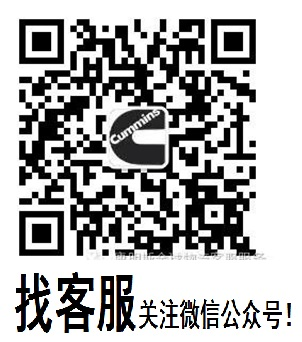
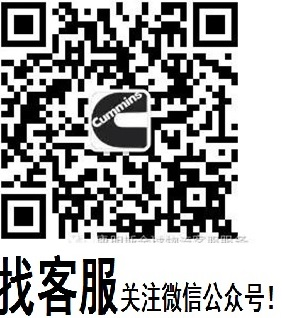
change some layour for waybillPrint function

diff --git a/CHubMVC/CHubCommon/PDFHelper/LocalPageEventHelper.cs b/CHubMVC/CHubCommon/PDFHelper/LocalPageEventHelper.cs
@@ -99,8 +99,8 @@ namespace CHubCommon
                 template = cb.CreateTemplate(50, 50);
             }
 
-            float linePosition = 110f;
-            if (!printCode)
+            float linePosition = 115f;
+            if ((!printCode)&&(hData.PRINT_LOGO==CHubConstValues.IndN))
             {
                 document.Add(new Paragraph(Environment.NewLine));
                 document.Add(new Paragraph(Environment.NewLine));
@@ -119,29 +119,61 @@ namespace CHubCommon
 
                 PdfPTable hTable = new PdfPTable(1);
                 hTable.WidthPercentage = 100f;
-                
+                              
                 PdfPCell hUnit = new PdfPCell();
-                
+
                 /////
 
                 #region for adding header part for each page
-                iTextSharp.text.Image tImg = iTextSharp.text.Image.GetInstance(QRPath);
-                tImg.Alignment = Element.ALIGN_RIGHT;
 
-                PdfPTable imgTable = new PdfPTable(1);
-                imgTable.SetWidths(new float[] { 20f });
+                PdfPTable imgTable = new PdfPTable(4);
+                imgTable.SetWidths(new float[] {430f,80f,10f,75f});//215f, 75f, 200f, 85f
                 imgTable.HorizontalAlignment = Element.ALIGN_RIGHT;
-                PdfPCell imgCell = new PdfPCell(tImg, false);
+
+                PdfPCell imgCell = new PdfPCell();
                 imgCell.BorderWidth = 0;
-                imgCell.HorizontalAlignment = Element.ALIGN_RIGHT;
+                imgTable.AddCell(imgCell);
+
+                if (hData.PRINT_LOGO == CHubConstValues.IndY)
+                {
+                    string wechartPath = BasePath.Replace("temp", "images") + (hData.LOGO ?? "wechat.jpg");
+                    iTextSharp.text.Image wechatImage = iTextSharp.text.Image.GetInstance(wechartPath);
+                    wechatImage.Alignment = Element.ALIGN_RIGHT;
+                    imgCell = new PdfPCell(wechatImage, true);
+                    imgCell.HorizontalAlignment = Element.ALIGN_RIGHT;
+                }
+                else
+                    imgCell = new PdfPCell();
+
+                imgCell.BorderWidth = 0;
+                imgTable.AddCell(imgCell);
+
+                //margin between two pictures
+                imgCell = new PdfPCell();
+                imgCell.BorderWidth = 0;
+                imgTable.AddCell(imgCell);
+
+                if (printCode)
+                {
+                    iTextSharp.text.Image tImg = iTextSharp.text.Image.GetInstance(QRPath);
+                    tImg.Alignment = Element.ALIGN_RIGHT;
+                    imgCell = new PdfPCell(tImg, false);
+                    imgCell.HorizontalAlignment = Element.ALIGN_RIGHT;
+                }
+                else
+                    imgCell = new PdfPCell();
+
+                imgCell.BorderWidth = 0;
                 imgTable.AddCell(imgCell);
 
                 hUnit.AddElement(imgTable);
 
-
-                Paragraph p1 = new Paragraph(codeString, new iTextSharp.text.Font(BF_Light, CodeFontSize));
-                p1.Alignment = Element.ALIGN_RIGHT;
-                hUnit.AddElement(p1);
+                if (printCode)
+                {
+                    Paragraph p1 = new Paragraph(codeString, new iTextSharp.text.Font(BF_Light, CodeFontSize));
+                    p1.Alignment = Element.ALIGN_RIGHT;
+                    hUnit.AddElement(p1);
+                }
 
                 //Paragraph p2 = new Paragraph(line1String, new iTextSharp.text.Font(BF_Light, HeaderFontSize));
                 //hUnit.AddElement(p2);
@@ -167,7 +199,7 @@ namespace CHubCommon
             //content table
             PdfPTable contentTable = new PdfPTable(4);
             contentTable.WidthPercentage = 100f;
-            contentTable.SetWidths(new float[] { 215f, 75f, 200f, 85f });
+            contentTable.SetWidths(new float[] { 215f, 70f, 205f, 85f });
             PdfPCell cellUnit;
 
             Paragraph p11 = new Paragraph();
@@ -187,16 +219,17 @@ namespace CHubCommon
             contentTable.AddCell(cellUnit);
 
             //wechat imag p12
-            if (hData.PRINT_LOGO == CHubConstValues.IndY)
-            {
-                string imagePath = BasePath.Replace("temp", "images") + (hData.LOGO?? "wechat.jpg");
-                iTextSharp.text.Image logoImage = iTextSharp.text.Image.GetInstance(imagePath);
-                cellUnit = new PdfPCell(logoImage, true);
-            }
-            else
-            {
-                cellUnit = new PdfPCell();
-            }
+            //if (hData.PRINT_LOGO == CHubConstValues.IndY)
+            //{
+            //    string imagePath = BasePath.Replace("temp", "images") + (hData.LOGO?? "wechat.jpg");
+            //    iTextSharp.text.Image logoImage = iTextSharp.text.Image.GetInstance(imagePath);
+            //    cellUnit = new PdfPCell(logoImage, true);
+            //}
+            //else
+            //{
+            //    cellUnit = new PdfPCell();
+            //}
+            cellUnit = new PdfPCell();
             cellUnit.BorderWidth = 0;
             contentTable.AddCell(cellUnit);
 

diff --git a/CHubMVC/CHubBLL/OtherProcess/RPWayBillPrintBLL.cs b/CHubMVC/CHubBLL/OtherProcess/RPWayBillPrintBLL.cs
@@ -92,7 +92,7 @@ namespace CHubBLL.OtherProcess
             leHelper.line1String = GetLineString(sData, 80);
 
             Document doc = new Document(pageRec);
-            doc.SetMargins(36f, 36f, 10f, bottomMargin);
+            doc.SetMargins(30f, 36f, 15f, bottomMargin);
             PdfWriter writer = PdfWriter.GetInstance(doc, new FileStream(fullPath, FileMode.Create));
 
             //leHelper.QRPath = fullImgPath;
@@ -202,7 +202,7 @@ namespace CHubBLL.OtherProcess
             leHelper.BasePath = BasePath;
 
             Document doc = new Document(pageRec);
-            doc.SetMargins(36f, 36f, 10f, bottomMargin);
+            doc.SetMargins(30f, 36f, 15f, bottomMargin);
             PdfWriter writer = PdfWriter.GetInstance(doc, new FileStream(fullPath, FileMode.Create));
             writer.PageEvent = leHelper;
             //doc.Open();

diff --git a/CHubMVC/CHubDAL/V_RP_PACK_H_BASE_DAL.cs b/CHubMVC/CHubDAL/V_RP_PACK_H_BASE_DAL.cs
@@ -40,5 +40,14 @@ where WH_ID='{0}'", whID);
             
         }
 
+        public List<V_RP_PACK_H_BASE> GetStagedPackList()
+        {
+            string sql = @"select * from V_RP_PACK_H_BASE where SHPSTS='S' ";
+
+            var result = db.Database.SqlQuery<V_RP_PACK_H_BASE>(sql);
+            return result.OrderBy(a => a.SHIP_ID).ThenBy(a => a.LODNUM).ToList();
+
+        }
+
     }
 }

diff --git a/CHubMVC/CHubBLL/V_RP_PACK_H_BASE_BLL.cs b/CHubMVC/CHubBLL/V_RP_PACK_H_BASE_BLL.cs
@@ -27,5 +27,10 @@ namespace CHubBLL
             return dal.GetPackList(whID, shipID, custName, address, staged, range);
         }
 
+        public List<V_RP_PACK_H_BASE> GetStagedPackList()
+        {
+            return dal.GetStagedPackList();
+        }
+
     }
 }
